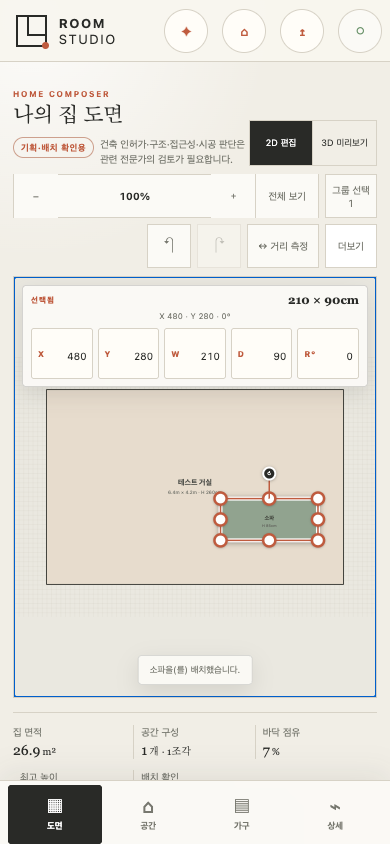
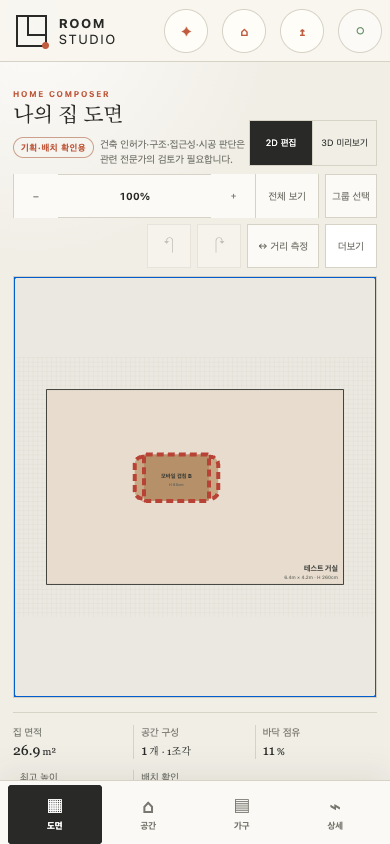
fix: trap focus in overlap picker

diff --git a/src/main.js b/src/main.js
@@ -2211,7 +2211,7 @@ function renderPlacementHud() {
 
 function renderOverlapPicker() {
   if (!overlapPicker) return '';
-  return `<div class="overlap-picker" data-overlap-picker role="dialog" aria-label="겹친 대상 선택"
+  return `<div class="overlap-picker" data-overlap-picker role="dialog" aria-modal="true" aria-label="겹친 대상 선택"
     style="--picker-left:${overlapPicker.left}px;--picker-top:${overlapPicker.top}px">
     <span><strong>겹친 대상 ${overlapPicker.candidates.length}개</strong><small>움직일 대상을 고르세요</small></span>
     <div>${overlapPicker.candidates.map((candidate) => `<button data-overlap-choice="${candidate.selectionKind}:${candidate.id}" type="button"><b>${escapeHtml(candidate.label)}</b><small>${candidate.selectionKind === 'item' ? '가구' : candidate.kind === 'opening' ? '문·창' : '벽'}</small></button>`).join('')}</div>
